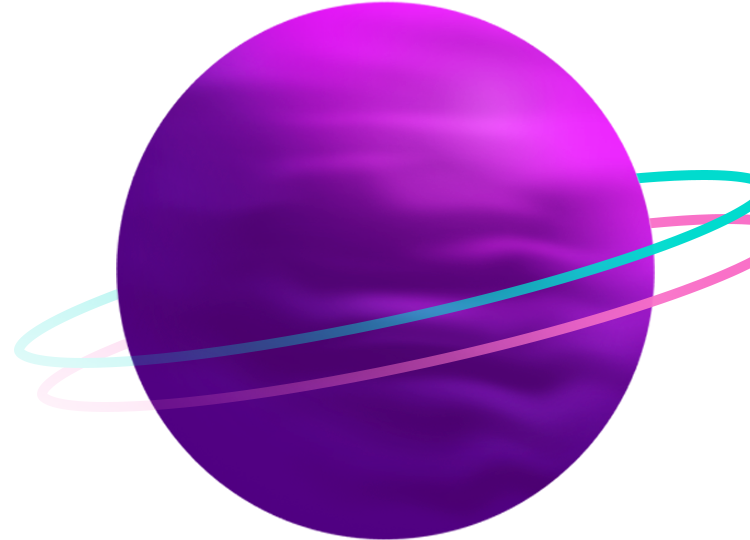
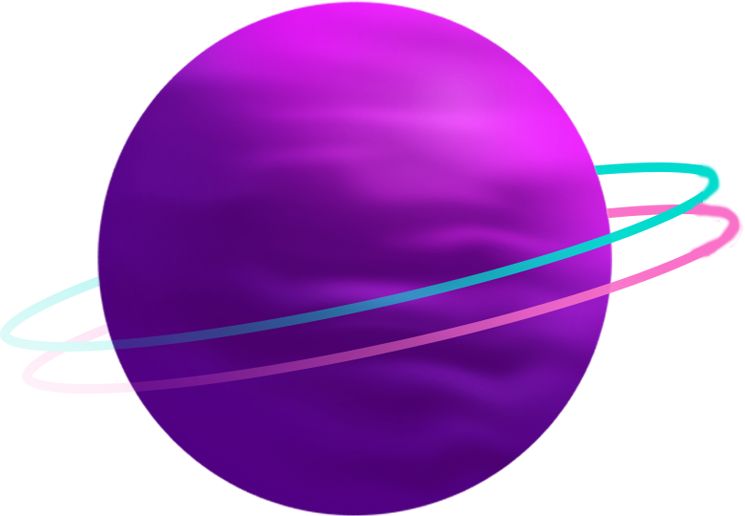
20180916

diff --git a/src/components/star/index.vue b/src/components/star/index.vue
@@ -4,12 +4,7 @@
       <!--基本信息-->
       <div class="index-user-info">
         <span class="fl">公告：</span>
-        <marquee  direction="left" scrolldelay="500">
-          <p>这是1个滚动消息我是一个跟hard的员工</p>
-          <p>这是2个滚动消息</p>
-          <p>这是3个滚动消息</p>
-          <p>这是4个滚动消息</p>
-        </marquee>
+        <marquee  direction="left" scrolldelay="500">{{systemNotice}}</marquee>
         <i>更多 >></i>
       </div>
       <!-- 钻石区域 -->
@@ -120,7 +115,8 @@ export default {
       ownerGold: 0,
       ownerMoney: 0,
       ownerPower: 0,
-      successGet: false
+      successGet: false,
+      systemNotice: ''
     }
   },
   components: {
@@ -168,49 +164,6 @@ export default {
           })
       }
     },
-    /*dataGold () {
-      if (token) {
-        this.$http.get(url + 'dataGold?token=' + token)
-        // 今日代币及累计获得的代币数据
-          .then(response => {
-            // console.log(response)
-            if (response.data.code == 200) {
-              this.today_owen = response.data.data.today
-              this.all_owen = response.data.data.total
-            } else if (response.data.code == 403) {
-              Toast({
-                message: response.data.msg
-              })
-            }
-          })
-          .catch(error => {
-            console.log(error)
-            Toast('服务器出问题啦ミﾟДﾟ彡快去告诉程序猿')
-          })
-      }
-    },*/
-    /*recommend () {
-      // 获取直推人数
-      api.recommendNum()
-        .then((res) => {
-          this.invitpeo = res.data
-        })
-    },
-    getSonNum () {
-      // 旗下人数
-      api.getSonNum()
-        .then((res) => {
-          this.allpeo = res.data
-        })
-    },
-    prompt () {
-      // 提示信息
-      api.prompt()
-        .then((res) => {
-          // console.log(res)
-          this.promptTxt = res.data
-        })
-    },*/
     // 领取每天星钻红包
     getStar () {
       let form = this.$qs.stringify({
@@ -236,92 +189,29 @@ export default {
   },
   created () {
     this.dataMiners()
-    // this.dataGold()
-    // this.recommend()
-    // this.getSonNum()
-    // this.prompt()
     if (token) {
       this.$http.get(url + 'notGet?token=' + token)
       // 未开采K矿
         .then(response => {
-          // console.log(response)
           this.arr = response.data.data;
-         /* this.arr = [{
-            id: 1,
-            ore: '1.00'
-          },
-          {
-            id: 2,
-            ore: '2.00'
-          },
-          {
-            id: 3,
-            ore: '3.00'
-          },
-          {
-            id: 4,
-            ore: '4.00'
-          },
-          {
-            id: 5,
-            ore: '5.00'
-          },
-          {
-            id: 6,
-            ore: '6.00'
-          },
-          {
-            id: 7,
-            ore: '7.00'
-          },
-          {
-            id: 8,
-            ore: '8.00'
-          },
-          {
-            id: 9,
-            ore: '9.00'
-          }]*/
         })
         .catch(error => {
           console.log(error)
           Toast('服务器出问题啦ミﾟДﾟ彡快去告诉程序猿')
+        })
+      // 获得金币数量
+      api.getUserTreasure(token)
+        .then(res => {
+          this.ownerGold = res.data.miners
+          this.ownerMoney = res.data.gold
+          this.ownerPower = res.data.power
         })
     }
-    /*if (!token) {
-
-    } else {
-      this.$http.get(url + 'occupancyRate?token=' + token)
-      // 团队看板占比
-        .then(response => {
-          // console.log(response.data.data)
-          for (let i = 0; i < response.data.data.length; i++) {
-            if (response.data.data[i].percentage == 0) {
-              this.progressBox[i] = response.data.data[i]
-              // this.teamFloor = false
-            } else {
-              this.progressBox = response.data.data
-              this.progressBox[1].color = '#a288d2'
-              this.progressBox[2].color = '#f0b026'
-              this.progressBox[3].color = '#1ad3a7'
-              this.progressBox[4].color = '#03a8f7'
-            }
-          }
-        })
-        .catch(error => {
-          console.log(error)
-          Toast('服务器出问题啦ミﾟДﾟ彡快去告诉程序猿')
-        })
-    }*/
-    /*
-    * 获得金币数量
-    * */
-    api.getUserTreasure(token)
+    // 系统公告
+    api.systemNotice()
       .then(res => {
-        // console.log(res)
-        this.ownerGold = res.data.miners
-        this.ownerMoney = res.data.gold
-        this.ownerPower = res.data.power
+        this.systemNotice = res.data
+        console.log(res)
       })
   },
   mounted () {

diff --git a/src/components/mine/upgrade.vue b/src/components/mine/upgrade.vue
@@ -7,10 +7,11 @@
     </mt-header>
     <div class="upgrade">
       <div class="cell-box">
-        <mt-field label="推荐人编号" readonly v-model="recomID"></mt-field>
-        <mt-field label="节点人编号" readonly v-model="contact_code"></mt-field>
+        <mt-field label="发现者编号" v-model="recomID"></mt-field>
+        <mt-field label="探索者编号" v-model="contact_code"></mt-field>
         <!-- <mt-field label="推荐人姓名" readonly  v-model="recomName"></mt-field> -->
         <mt-field label="真实姓名" placeholder="请输入您的真实姓名" v-model="username"></mt-field>
+        <mt-radio title="选择区间" v-model="value" :options="['左', '右',]"></mt-radio>
       </div>
       <div class="btn-box">
         <mt-button class="button" @click="upgrade">确认创建</mt-button>
@@ -27,8 +28,7 @@
       &:last-child{
         border-bottom: none;
       }
-    }
-  }
+    } }
   .btn-box{
     width: 90%;
     margin: 1rem auto 0;
@@ -53,43 +53,58 @@ export default {
       recomName: '张三',
       username: '',
       apply_level: 2,
+      value: '',
+      valCode: 0,
       baseUserInfo: JSON.parse(localStorage.getItem('userinfo'))
     }
   },
   created () {
     this.username = this.baseUserInfo.realname
     api.getRecordCode()
-    .then ((res) => {
-      console.log(res)
-      this.recomID = res.data.recommend_code
-      this.contact_code = res.data.contact_code
-    })
+      .then ((res) => {
+        console.log(res)
+        this.recomID = res.data.recommend_code
+        this.contact_code = res.data.contact_code
+      })
   },
   methods: {
     upgrade () {
+      if (this.value == '左') {
+        this.valCode = 1
+      } else if (this.value == '右') {
+        this.valCode = 2
+      } else if (this.value == ''){
+        Toast({
+          message: '请选择区间',
+          position: 'bottom',
+          duration: 2000
+        });
+        return false
+      }
       let form = this.$qs.stringify({
         apply_level: this.apply_level,
         token: token,
         recommend_code: this.recomID,
-        contact_code: this.contact_code
+        contact_code: this.contact_code,
+        place: this.valCode
       })
-      this.$http.post(url+'apply', form)
-      .then(response => {
-        console.log(response)
-        Toast({
-          message: response.data.msg,
-          position: 'bottom',
-          duration: 2000
+      api.apply(form)
+        .then(response => {
+          console.log(response)
+          Toast({
+            message: response.data.msg,
+            position: 'bottom',
+            duration: 2000
+          })
+          if (response.data.code == 200) {
+            localStorage.setItem('level',this.apply_level)
+            this.$router.push('/index')
+          }
         })
-        if (response.data.code == 200) {
-          localStorage.setItem('level',this.apply_level)
-          this.$router.push('/index')
-        }
-      })
-      .catch(error => {
-        console.log(error)
-        Toast('服务器出问题啦ミﾟДﾟ彡快去告诉程序猿')
-      })
+        .catch(error => {
+          console.log(error)
+          Toast('服务器出问题啦ミﾟДﾟ彡快去告诉程序猿')
+        })
     }
   }
 }

diff --git a/src/components/store/gift.vue b/src/components/store/gift.vue
@@ -6,7 +6,7 @@
       </a>
     </mt-header>
     <div class="gift">
-      <div class="notice">购买须知：购买须知购买须知购买须知购买须知购买须知购买须知购买须知购买须知购买须知购买须知购买须知购买须知购买须知购买须知购买须知购买须知购买须知购买须知购买须知购买须知</div>
+      <div class="notice">购买须知：{{purchaseNotes}}</div>
       <ul>
         <li v-for="(gift,index) in giftList" :key="index">
           <router-link :to="'/giftOrder/'+gift.id+'/'+index">
@@ -63,15 +63,22 @@ export default {
   data () {
     return {
       giftList: [],
-      imgUrl: imgUrl
+      imgUrl: imgUrl,
+      purchaseNotes: ''
     }
   },
   created () {
+    // 获取礼包列表
     api.present()
-    .then((res) => {
-      console.log(res)
-      this.giftList = res.data
-    })
+      .then((res) => {
+        console.log(res)
+        this.giftList = res.data
+      })
+    // 获取购买须知
+    api.buyAction()
+      .then(res => {
+        this.purchaseNotes = res.data
+      })
   }
 }
 </script>

diff --git a/src/components/star/miji.vue b/src/components/star/miji.vue
@@ -72,8 +72,14 @@
     </div>-->
     <div class="dynamicContainer">
       <div class="dynamicTxt"></div>
-      <router-link to="/starBase"><div class="treng_pic1 treng_pic"></div></router-link>
-      <router-link to="/starSecret"><div class="treng_pic2 treng_pic"></div></router-link>
+      <router-link to="/starBase"><div class="treng_pic1 treng_pic">
+        <p>星球基地</p>
+        <p class="dynamicTxt-center">价值的贡献者参与价值的分享</p>
+      </div></router-link>
+      <router-link to="/starSecret"><div class="treng_pic2 treng_pic">
+        <p>星球秘籍</p>
+        <p  class="dynamicTxt-center">带您玩转YC星球</p>
+      </div></router-link>
     </div>
   </div>
 </template>

diff --git a/src/assets/less/miji.less b/src/assets/less/miji.less
@@ -47,6 +47,19 @@
     width: 5.89rem;
     height: 2.05rem;
     margin: 0 auto .45rem;
+    p{
+      padding-top: .5rem;
+      text-indent: 3em;
+      color: white;
+      font-size: .28rem;
+      font-weight: bolder;
+      &.dynamicTxt-center{
+        padding-top: .3rem;
+        font-size: .26rem;
+        font-weight: normal;
+        text-indent: 4em;
+      }
+    }
     &.treng_pic1{
       background: url("../image/treng_pic1.png") no-repeat center;
       background-size: 100% ;

diff --git a/src/assets/js/api.js b/src/assets/js/api.js
@@ -248,6 +248,14 @@ export default {
   powerReturnList (params) {
     // 算力每日定反记录
     return Get(`/powerReturnList/${params.page}?token=${token}`)
+  },
+  systemNotice () {
+    // 系统公告
+    return Get(`/aboutus`)
+  },
+  buyAction () {
+    // 购买须知
+    return Get(`/purchasenotes`)
   }
 }
 export { imgUrl }

diff --git a/src/assets/less/index.less b/src/assets/less/index.less
@@ -52,7 +52,7 @@
     .canvas{
       margin-top: 0.6rem;
       background: url("../image/XINGQIU.png") no-repeat center;
-      background-size: 100% auto;
+      background-size: 85% auto;
     }
     img{
       width: 100%;

diff --git a/src/components/store/giftOrder.vue b/src/components/store/giftOrder.vue
@@ -211,7 +211,7 @@ export default {
       })
         .then((res) => {
           // console.log(res)
-          this.orderList = res.data
+          this.orderList = res.data.goods
         })
     },
     popGiftBag (e) {

diff --git a/src/assets/less/giftOrder.less b/src/assets/less/giftOrder.less
@@ -46,6 +46,8 @@
   .gift-list{
     background-color: #fff;
     padding: 0.2rem;
+    font-size: .27rem;
+    color: #e79e56;
     display: flex;
     justify-content: space-between;
     .item-input{
